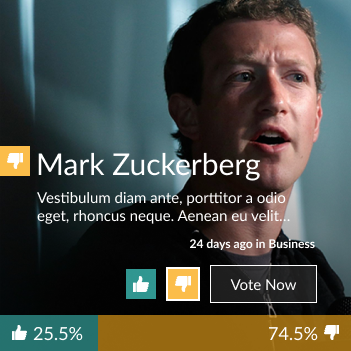
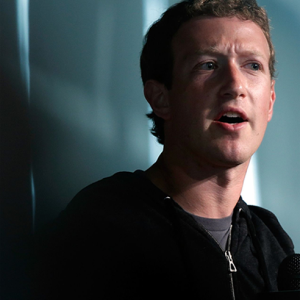
mark.png img update to grid view

Changed region(s): [[0.0, 0.39, 1.0, 1.0], [0.9, 0.78, 0.93, 0.84]]

diff --git a/src/components/Card/Card.jsx b/src/components/Card/Card.jsx
@@ -2,9 +2,11 @@ import React from 'react';
 import './card.css'
 
 const Card = ({props}) => {
+    const imgUrl = `url(https://github.com/daferrom/RuleOfThumb/blob/main/public/assets/img/backgroundcards/${props.picture}?raw=true)`
+
   return (
  
-  <div className='card'>
+  <div className='card' style={{backgroundImage:imgUrl}} >
         <div className='container'>
              <div className="iconAndTitleCont">  
                 <div className='iconContainer' aria-label="thumbs">

diff --git a/src/components/Card/card.css b/src/components/Card/card.css
@@ -12,8 +12,7 @@
 }
 
 .card{
-
-    background-image: url("../../../public/assets/img/KanyeWest.jpg") ;
+    /* background-image: url("../../../public/assets/img/KanyeWest.jpg") ; */
     background-size: cover;
     background-repeat: no-repeat;
     height:300px;

diff --git a/src/components/Cards/cards.css b/src/components/Cards/cards.css
@@ -38,7 +38,7 @@
     
 }
 /*Media query for mobile version*/
-@media (min-width:300px) and (max-width:767px){
+@media (min-width:1px) and (max-width:767px){
     .grid-container-active{
             display: flex;
             flex-direction:row;
